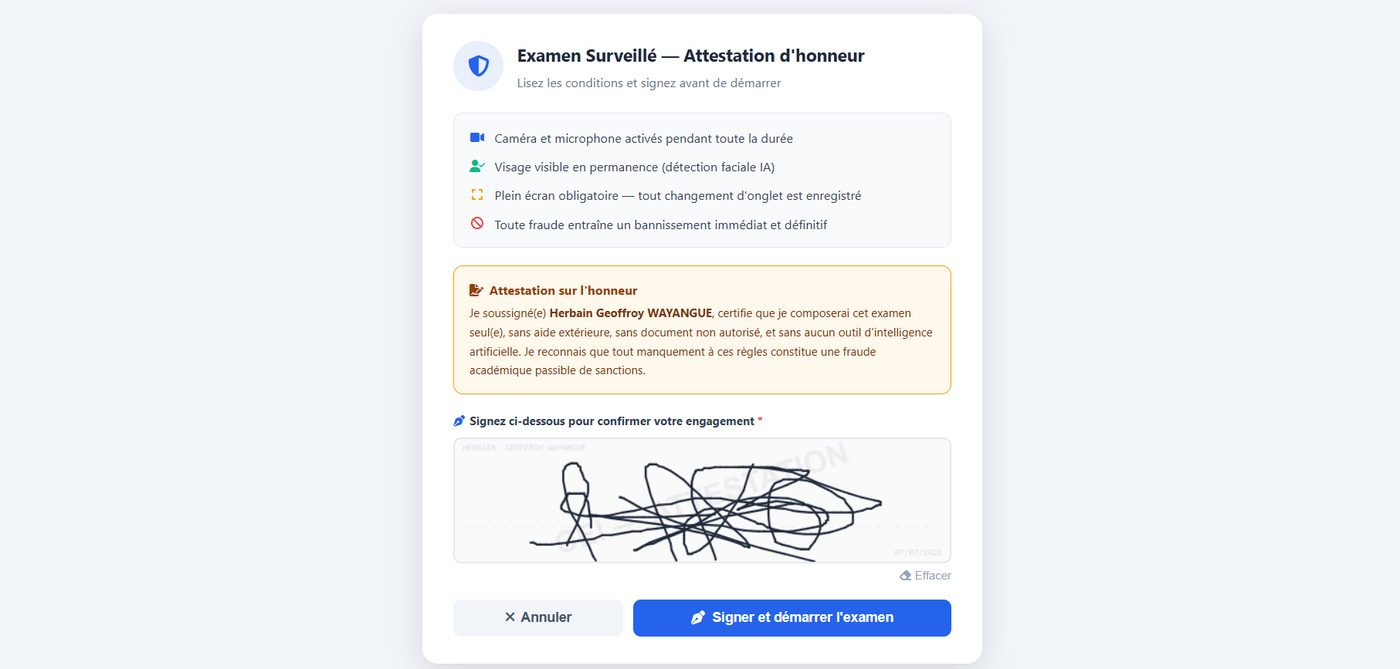
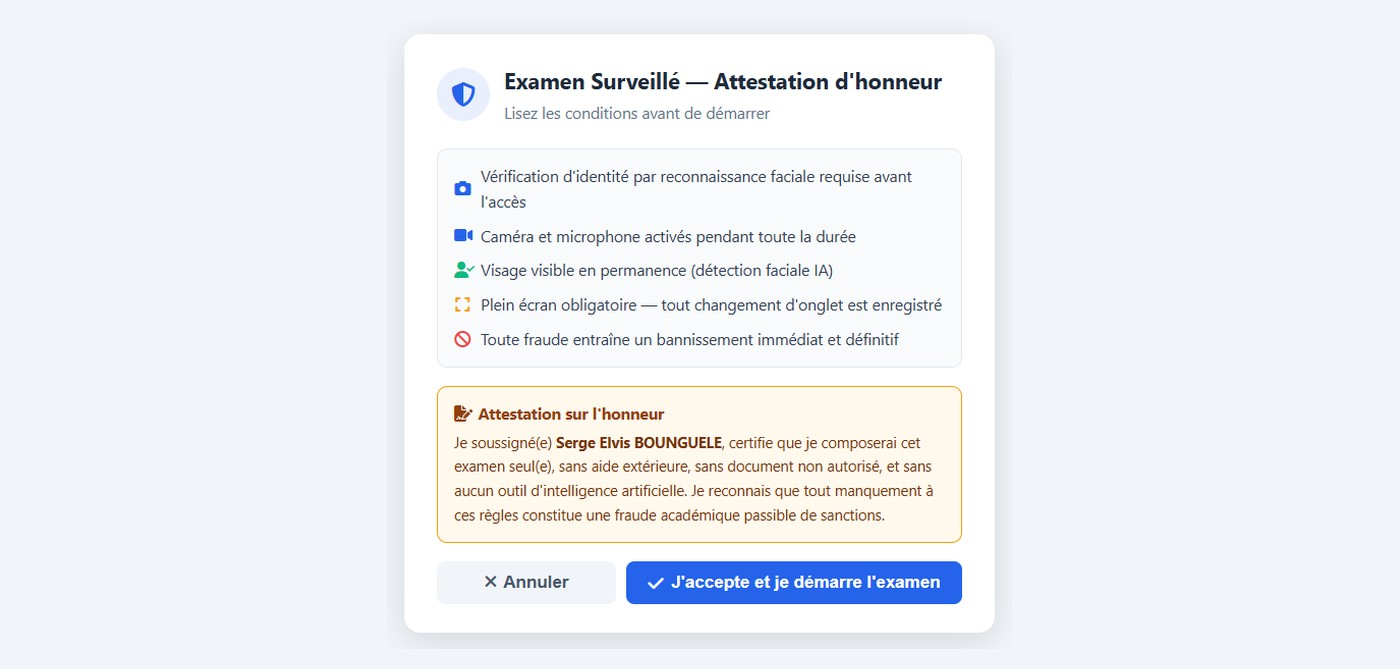
Guide étudiant : nouvelle capture de l'attestation d'honneur (sans signature électronique) et texte du bouton

Changed region(s): [[0.2764, 0.0598, 0.7064, 0.9865], [0.2764, 0.0598, 0.3071, 0.0897]]

diff --git a/app/guide-etudiant/page.tsx b/app/guide-etudiant/page.tsx
@@ -110,7 +110,7 @@ export default function GuideEtudiant() {
             <div className="steps">
               <div className="step"><div className="step-num">1</div><div className="step-content"><h4>Repérer l&apos;examen disponible</h4><p>Dans <strong>Examens en Ligne</strong>, le bouton <span style={{background:'#10b981',color:'white',padding:'2px 8px',borderRadius:4,fontSize:14.5,fontWeight:700}}>Composer</span> apparaît quand l&apos;examen est en cours. Si trop tôt, cliquez sur <span style={{background:'#fef9c3',color:'#d97706',padding:'2px 8px',borderRadius:4,fontSize:14.5,fontWeight:700,border:'1px solid #fcd34d'}}>Pas encore ouvert</span> pour voir l&apos;heure de début exacte.</p><img className="guide-img" src="/screenshots/capture-8.jpg" alt="Liste des examens en ligne côté étudiant avec le bouton Composer" /></div></div>
               <div className="step"><div className="step-num">2</div><div className="step-content"><h4>Vérification d&apos;identité (reconnaissance faciale)</h4><p>Avant chaque accès à un examen, votre identité est vérifiée automatiquement par reconnaissance faciale. La <strong>première fois</strong>, vous êtes redirigé(e) vers un écran d&apos;inscription (une seule fois, modifiable ensuite depuis Paramètres &gt; Sécurité) ; ensuite, la vérification est quasi instantanée à chaque examen.</p><div className="warn"><i className="fas fa-exclamation-triangle" /> Après plusieurs échecs de reconnaissance, un appel vidéo avec votre surveillant s&apos;ouvre automatiquement pour vérifier votre identité manuellement et débloquer l&apos;accès.</div></div></div>
-              <div className="step"><div className="step-num">3</div><div className="step-content"><h4>Accepter la surveillance</h4><p>Une fenêtre de consentement s&apos;affiche. Lisez attentivement les conditions de surveillance, puis cliquez sur <strong>J&apos;accepte — Démarrer l&apos;examen</strong>.</p><div className="warn"><i className="fas fa-exclamation-triangle" /> Votre navigateur demandera l&apos;accès à la caméra et au microphone. Vous <strong>devez</strong> les autoriser pour pouvoir composer.</div><img className="guide-img" src="/screenshots/capture-11.jpg" alt="Attestation d'honneur à signer avant de démarrer l'examen" /><img className="guide-img" src="/screenshots/capture-12.jpg" alt="Écran de demande d'accès caméra, microphone et partage d'écran" /></div></div>
+              <div className="step"><div className="step-num">3</div><div className="step-content"><h4>Accepter la surveillance</h4><p>Une fenêtre de consentement s&apos;affiche. Lisez attentivement les conditions de surveillance, puis cliquez sur <strong>J&apos;accepte et je démarre l&apos;examen</strong>. Aucune signature n&apos;est demandée : l&apos;attestation sur l&apos;honneur est validée par ce clic.</p><div className="warn"><i className="fas fa-exclamation-triangle" /> Votre navigateur demandera l&apos;accès à la caméra et au microphone. Vous <strong>devez</strong> les autoriser pour pouvoir composer.</div><img className="guide-img" src="/screenshots/capture-11.jpg" alt="Attestation sur l'honneur à accepter avant de démarrer l'examen, avec le bouton J'accepte et je démarre l'examen" /><img className="guide-img" src="/screenshots/capture-12.jpg" alt="Écran de demande d'accès caméra, microphone et partage d'écran" /></div></div>
               <div className="step"><div className="step-num">4</div><div className="step-content"><h4>Scan de l&apos;environnement (360°)</h4><p>Avant de démarrer, il vous sera demandé de tourner lentement votre caméra pour montrer votre environnement — cela vérifie qu&apos;aucune autre personne n&apos;est présente à vos côtés. Cette étape dure quelques secondes.</p></div></div>
               <div className="step"><div className="step-num">5</div><div className="step-content"><h4>Mode plein écran</h4><p>L&apos;examen s&apos;ouvre en plein écran automatiquement. Votre caméra s&apos;active, la surveillance commence. Ne quittez pas le plein écran pendant l&apos;examen.</p></div></div>
             </div>
